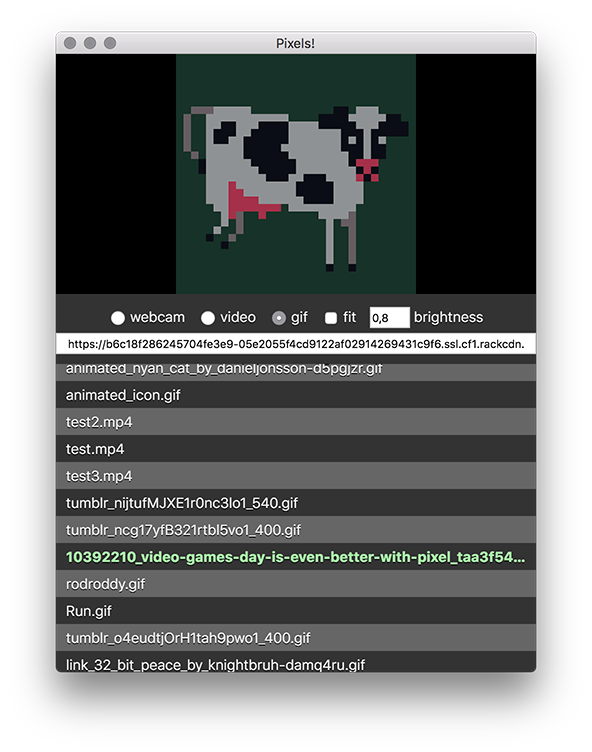
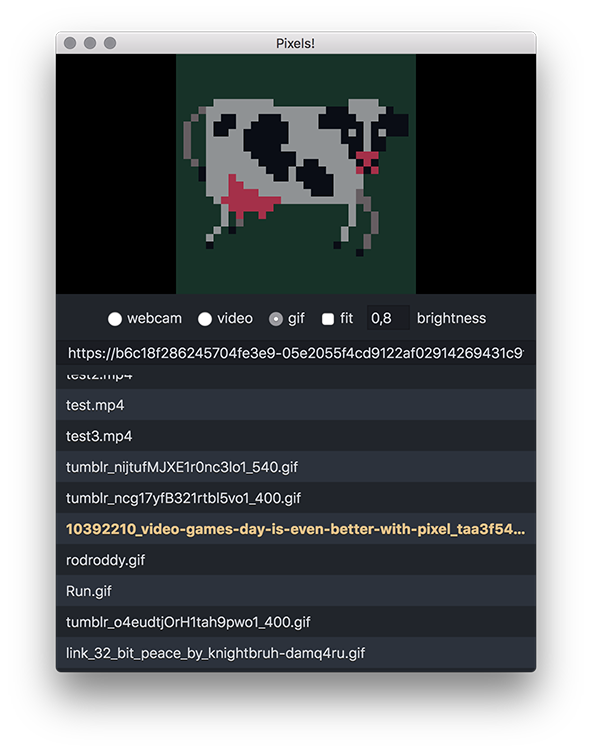
Cooler client styles

Changed region(s): [[0.0912, 0.3976, 0.9122, 0.9176], [0.3041, 0.1223, 0.6993, 0.367]]

diff --git a/client/css/screen.css b/client/css/screen.css
@@ -5,9 +5,9 @@
 body {
   padding: 0;
   margin: 0;
-  background: #333;
-  color: #eee;
-  text-shadow: 0 1px 0 #000;
+  background: #21252b;
+  color: #d7dae0;
+  text-shadow: 0 1px 0 #28251F;
   font-family: -apple-system, BlinkMacSystemFont, Helvetica, Arial, sans-serif;
   font-weight: 100;
   font-size: 14px;
@@ -17,33 +17,44 @@ body {
   text-size-adjust: 100%;
   cursor: default;
 }
-label {
-  margin: 0 5px;
-}
-input[type="text"] {
-  display: block;
-  width: 100%;
-  padding: 2px 10px;
-  margin: 5px 0 10px;
-}
-input[type="number"] {
-  width: 40px;
-  padding: 2px 0;
-}
-button {
-  display: inline-block;
-  background: #1a1a1a;
-  margin: 0;
-  border: 0;
-  border-radius: 2px;
-  padding: 8px 16px;
-  text-align: center;
-  cursor: pointer;
+label, input[type="text"], input[type="number"], button {
   outline: 0;
   color: inherit;
   font-family: inherit;
   font-size: inherit;
   font-weight: inherit;
+}
+label {
+  margin: 0 5px;
+}
+input[type="text"], input[type="number"] {
+  background: #1b1d23;
+}
+input[type="text"] {
+  display: block;
+  width: 100%;
+  padding: 2px 10px;
+  margin: 10px 0;
+}
+input[type="number"] {
+  width: 43px;
+  padding: 2px;
+  margin-right: 3px;
+}
+input[type="checkbox"], input[type="radio"] {
+  outline: 0;
+}
+button {
+  display: inline-block;
+  background: #1a1a1a;
+  background: linear-gradient(to bottom, #3a3f4b 0%, #353b45 100%);
+  margin: 0;
+  border: 0;
+  border: 1px solid #181a1f;
+  border-radius: 2px;
+  padding: 8px 32px;
+  text-align: center;
+  cursor: pointer;
 }
 
 /* Connect stuff */
@@ -51,20 +62,24 @@ container {
   display: block;
   padding: 30px 60px;
 }
-container form center {
+container input[type="text"] {
+  margin: 5px 0 10px;
+}
+container center {
   padding-top: 15px;
 }
 header {
   font-size: 90px;
   line-height: 146px;
-  padding-bottom: 50px;
+  padding-bottom: 46px;
   text-align: center;
 }
 
 /* Player stuff */
 canvas {
   image-rendering: pixelated;
-  width: 100%;
+  width: 480px;
+  height: 240px;
   margin-bottom: 5px;
 }
 ul {
@@ -74,21 +89,21 @@ ul {
   list-style: none;
   overflow-x: hidden;
   overflow-y: auto;
-  height: 308px;
+  height: 297px;
 }
 li {
   display: block;
-  padding: 2px 10px;
+  padding: 4px 10px;
   cursor: pointer;
   white-space: nowrap;
   overflow: hidden;
   text-overflow: ellipsis;
 }
 li:nth-child(odd) {
-  background: #666;
+  background: #2c323c;
 }
 li.active {
   cursor: default;
   font-weight: 700;
-  color: #aea;
+  color: #e2c08d;
 }
